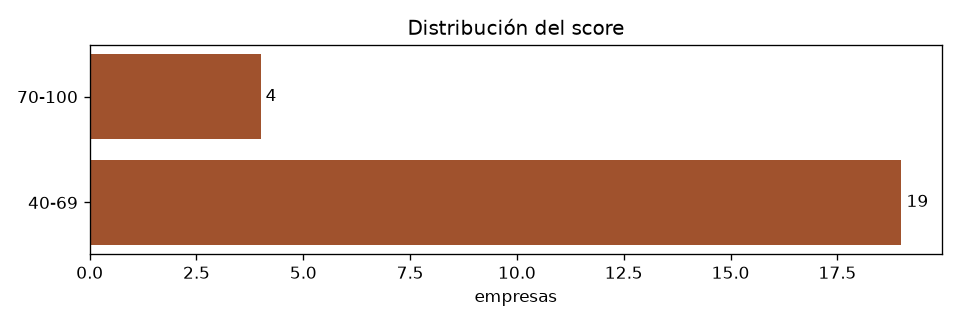
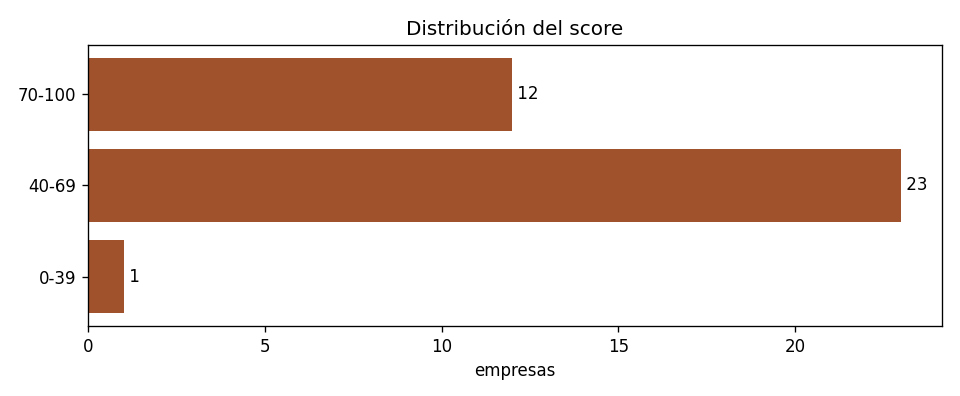
Reporte actualizado con nuevas calificaciones de la IA

diff --git a/analysis/output/reporte.md b/analysis/output/reporte.md
@@ -1,6 +1,6 @@
 # Reporte de métricas del pipeline
 
-Generado desde 234 empresas y 22 corridas exportadas de n8n. Solo cifras agregadas.
+Generado desde 234 empresas y 25 corridas exportadas de n8n. Solo cifras agregadas.
 
 ## Embudo
 
@@ -8,7 +8,7 @@ Generado desde 234 empresas y 22 corridas exportadas de n8n. Solo cifras agregad
 |---|---|
 | ingestadas | 234 |
 | con dominio verificado | 36 |
-| calificadas por IA | 22 |
+| calificadas por IA | 35 |
 | calificadas (score >= 70) | 0 |
 
 ![Embudo](embudo.png)
@@ -18,15 +18,16 @@ Generado desde 234 empresas y 22 corridas exportadas de n8n. Solo cifras agregad
 | estado | empresas |
 |---|---|
 | sin_dominio | 199 |
-| revision | 22 |
-| enriquecida | 13 |
+| revision | 35 |
 
 ## Rubros (IA)
 
 | rubro | empresas | score_promedio |
 |---|---|---|
-| otro | 22 | 60.8 |
-| sin calificar | 13 |  |
+| otro | 32 | 64.4 |
+| salud | 1 | 75 |
+| saas_tecnologia | 1 | 49 |
+| retail_ecommerce | 1 | 55 |
 | fintech_seguros | 1 | 55 |
 
 ![Rubros (IA)](por_rubro.png)
@@ -35,8 +36,9 @@ Generado desde 234 empresas y 22 corridas exportadas de n8n. Solo cifras agregad
 
 | tramo | empresas |
 |---|---|
-| 70-100 | 4 |
-| 40-69 | 19 |
+| 70-100 | 12 |
+| 40-69 | 23 |
+| 0-39 | 1 |
 
 ![Distribución del score](distribucion_score.png)
 
@@ -44,8 +46,10 @@ Generado desde 234 empresas y 22 corridas exportadas de n8n. Solo cifras agregad
 
 | causa | empresas |
 |---|---|
-| error de la API de IA | 21 |
-| sitio_minimo | 1 |
+| error de la API de IA | 28 |
+| sitio_minimo | 3 |
+| la IA dice que el sitio no es de la empresa | 3 |
+| score entre 40 y 69 o confianza < 0,6 | 1 |
 
 ![Motivos de revisión humana](motivos_revision.png)
 
@@ -81,6 +85,9 @@ Generado desde 234 empresas y 22 corridas exportadas de n8n. Solo cifras agregad
 | run-20261007-171010 | enriquecimiento | 13 |  |  |  | 12 | 1 |  |  |  | 0 | 24.3 |
 | run-20261007-183337 | ingesta_regulados | 40 | 34 | 3 | 3 |  |  |  |  |  | 0 | 40.1 |
 | run-20261007-183459 | enriquecimiento | 34 |  |  |  | 23 | 11 |  |  |  | 0 | 22.5 |
+| run-20261007-183708 | calificacion | 35 |  |  |  |  |  | 0 | 35 | 0 | 35 | 679.5 |
+| run-20261007-194800 | calificacion | 34 |  |  |  |  |  | 0 | 34 | 0 | 33 | 674.7 |
+| run-20261008-134547 | calificacion | 33 |  |  |  |  |  | 0 | 33 | 0 | 33 | 1006.3 |
 
 ## Duplicados en la ingesta
 
@@ -93,6 +100,6 @@ Generado desde 234 empresas y 22 corridas exportadas de n8n. Solo cifras agregad
 | origen | empresas | con_dominio | pct_dominio | medianas_o_grandes_sii | calificadas | en_revision |
 |---|---|---|---|---|---|---|
 | Registro de Empresas y Sociedades (fase 1) | 200 | 13 | 6.5 | 7 | 0 | 12 |
-| Superintendencia de Salud | 34 | 23 | 67.6 | 31 | 0 | 10 |
+| Superintendencia de Salud | 34 | 23 | 67.6 | 31 | 0 | 23 |
 
 ![Fase 1 vs fase 2: rendimiento por fuente](comparacion_fuentes.png)
